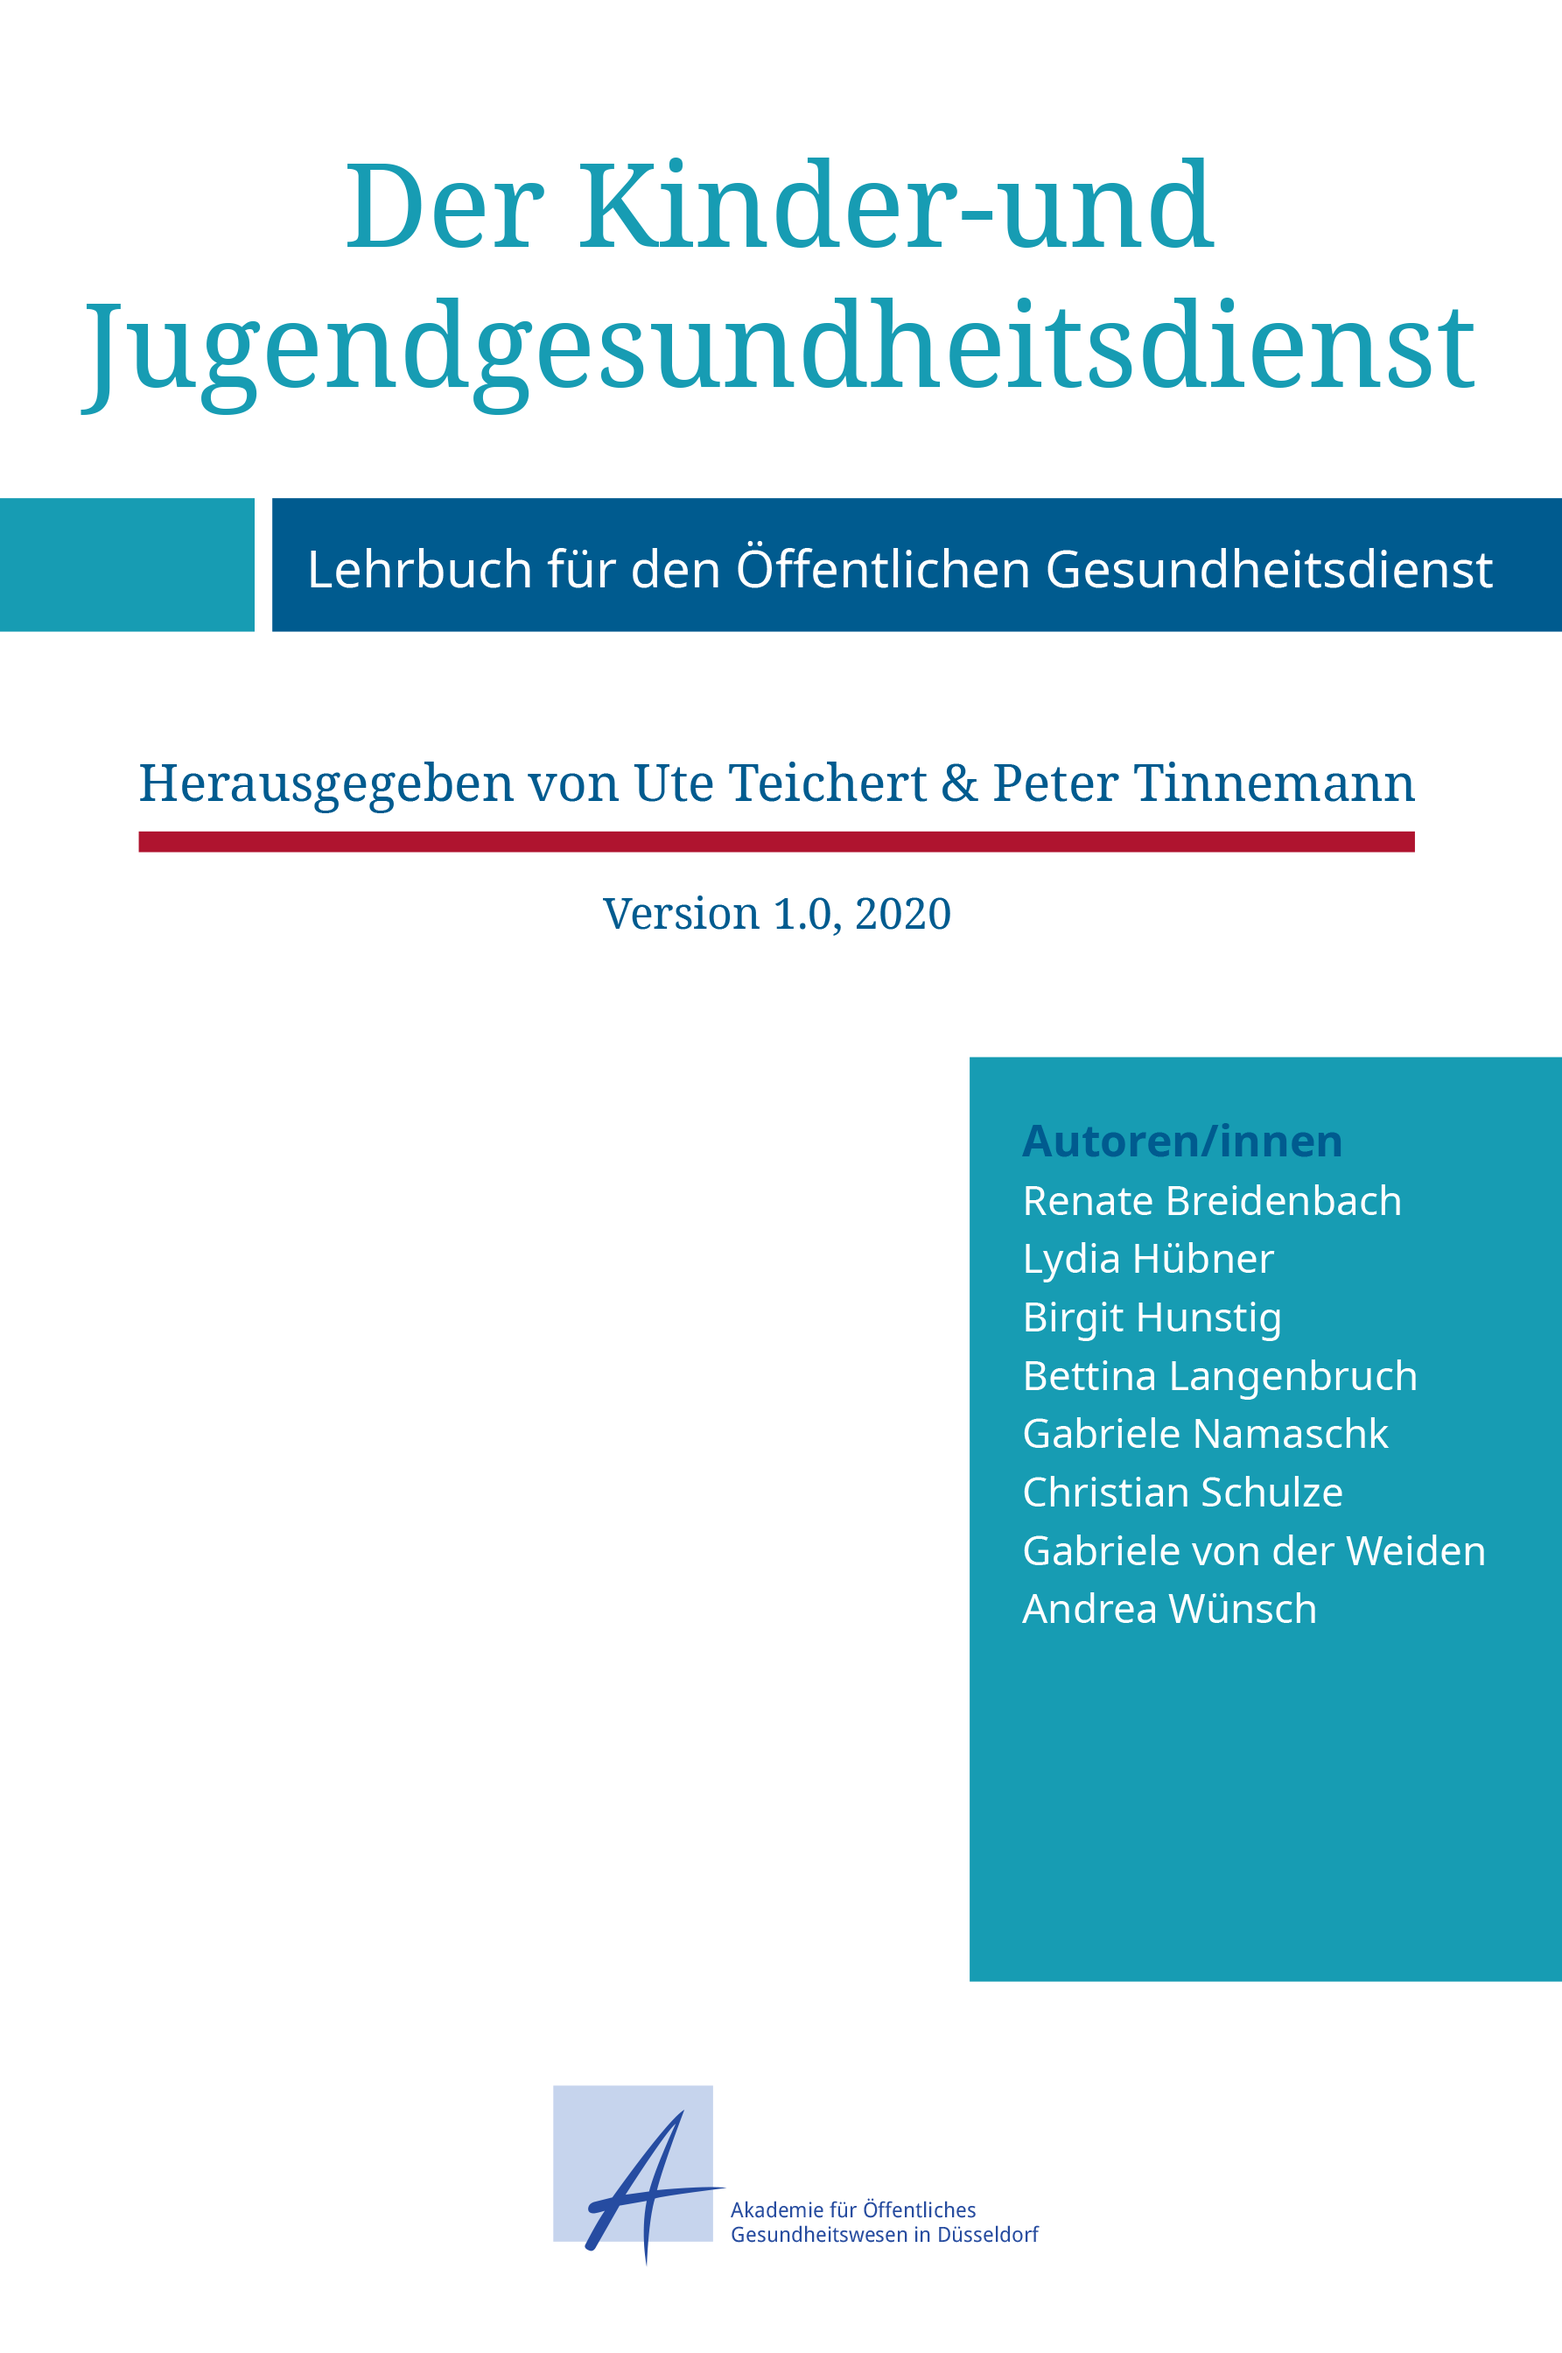
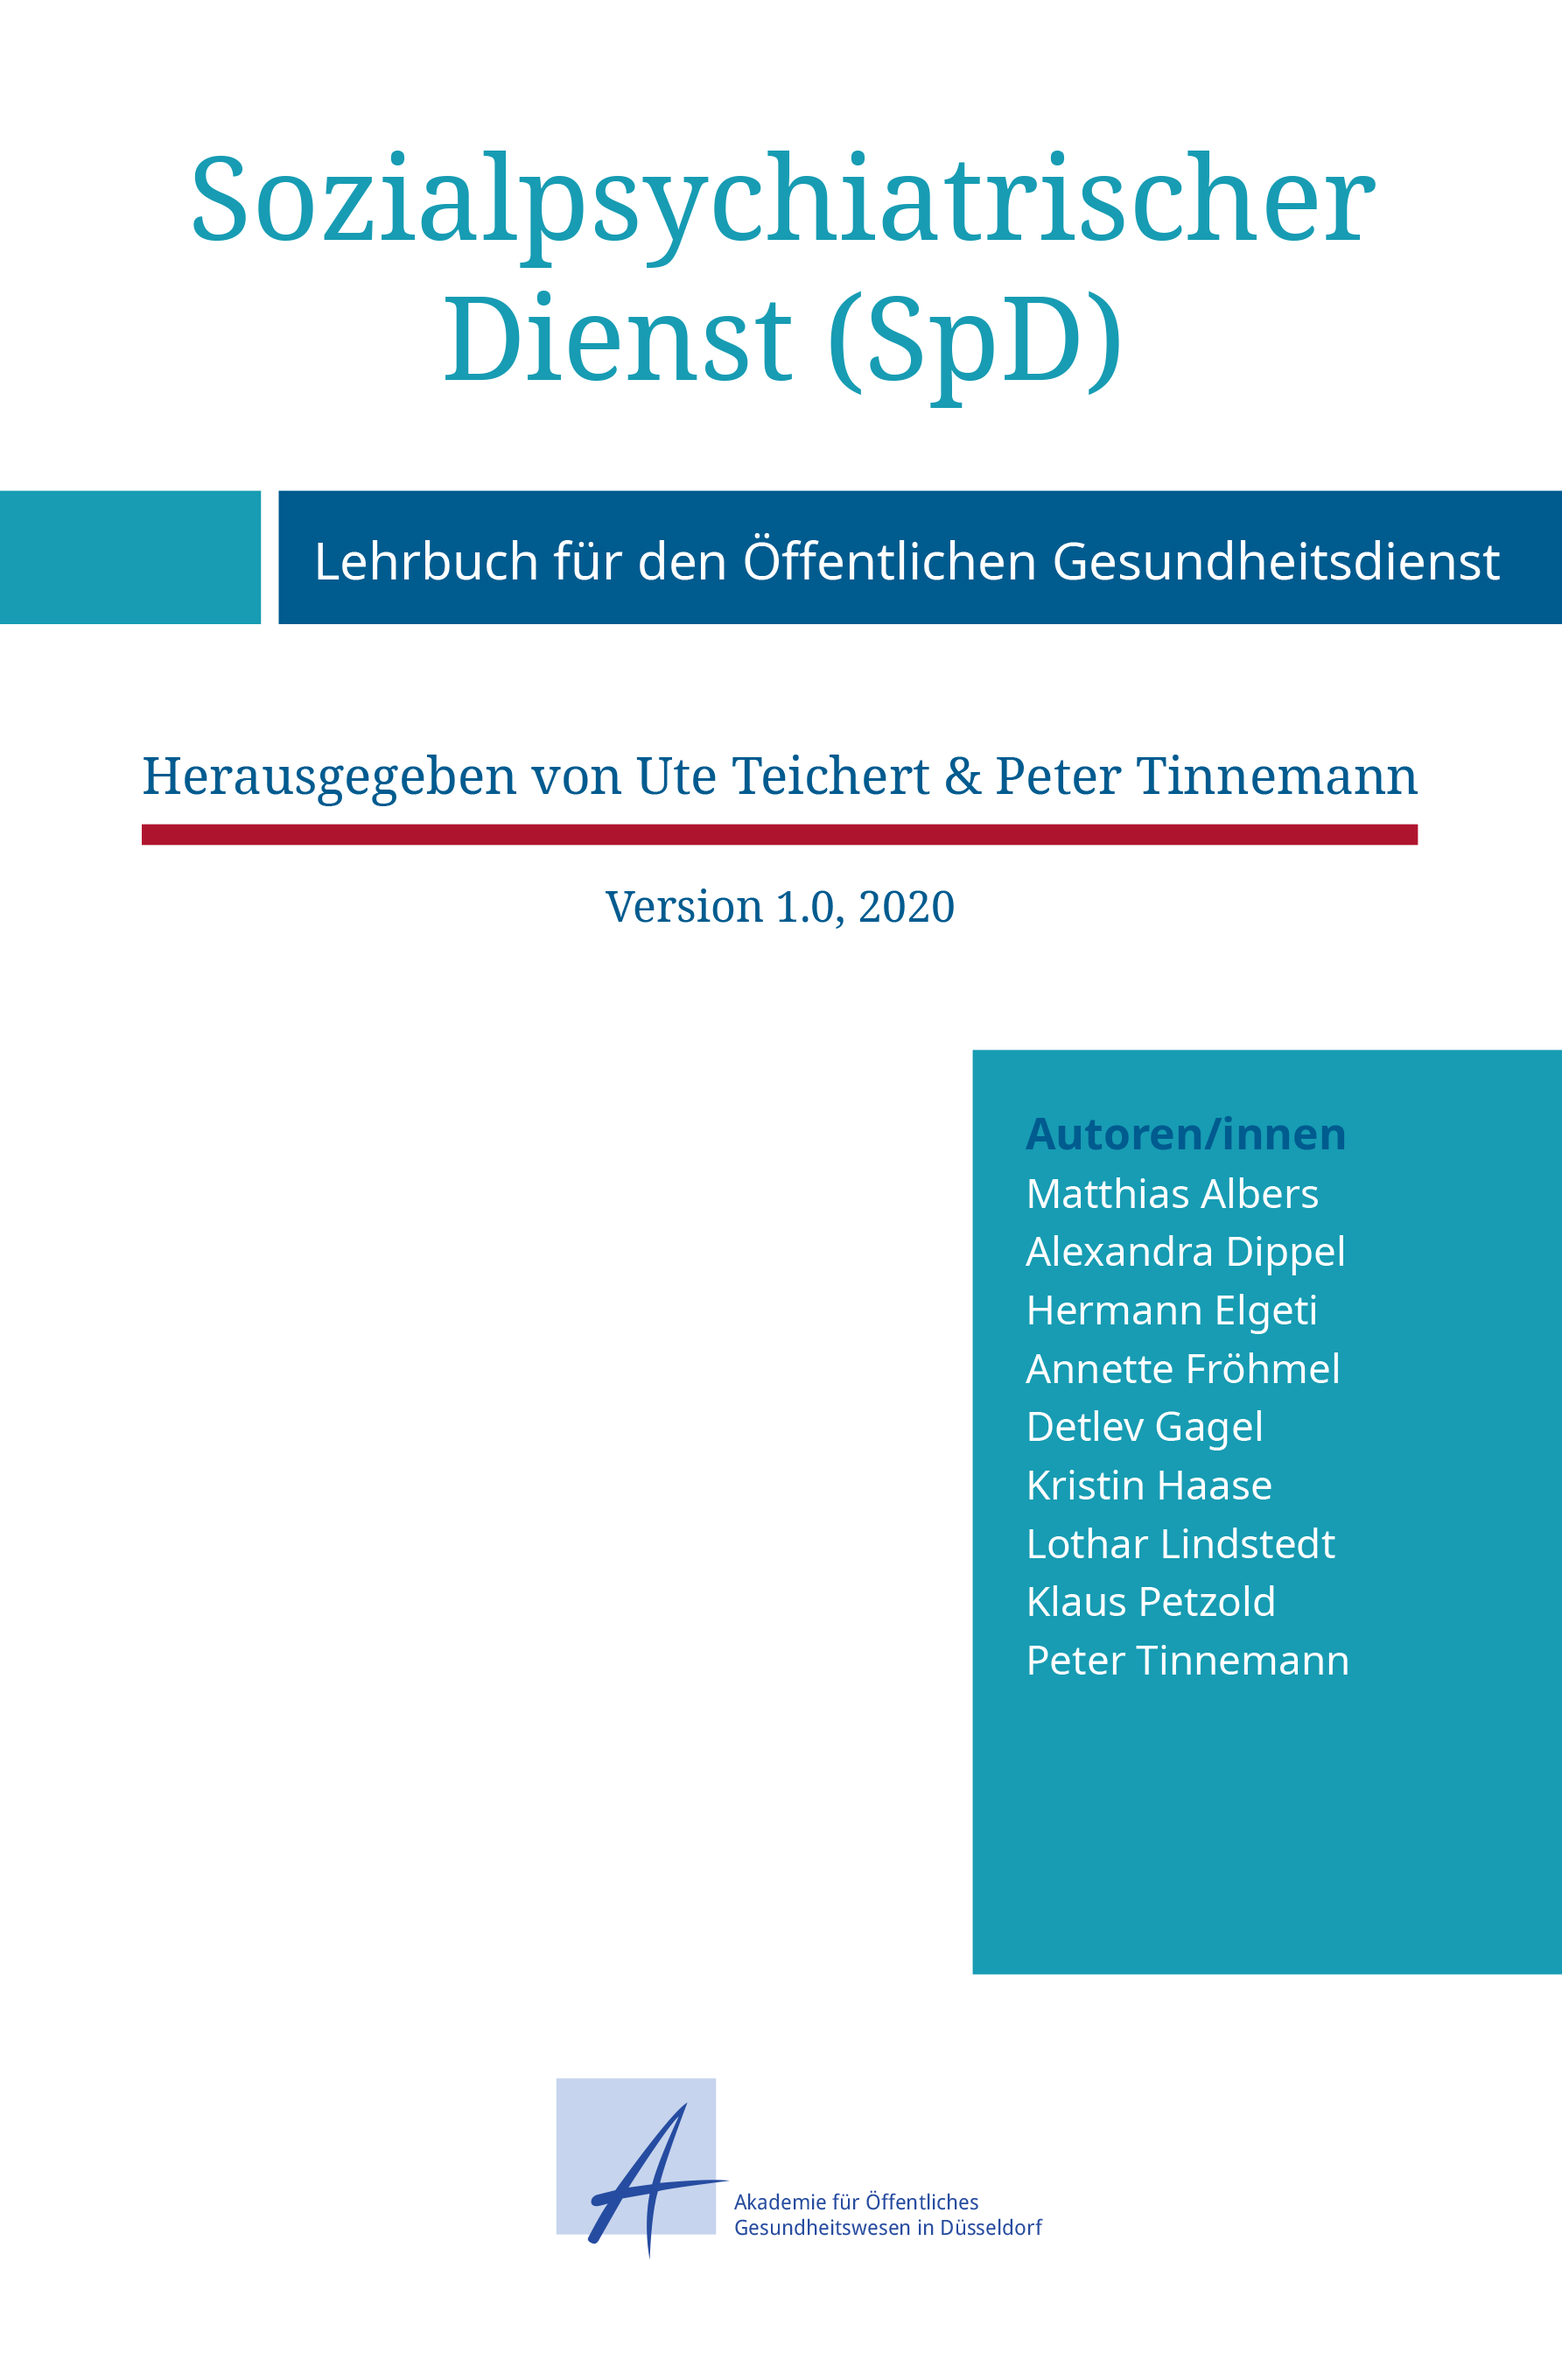
meta

diff --git a/_includes/head.html b/_includes/head.html
@@ -12,25 +12,25 @@
   <!-- Metatags -->
   <meta charset="utf-8" />
   <META NAME="keywords" CONTENT="Öffentlicher Gesundheitsdienst, Krisenmanagement, Risiko, Einsatzplanung, Infektionsschutz, Stabsarbeit, Kommunikation, Szenarien CBRN, Szenarien CBRN (B-Lagen), Toolbox, Lehrbuch" />
-  <META NAME="description" CONTENT="Krisenmanagement - Lehrbuch für den Öffentlichen Gesundheitsdienst" />
+  <META NAME="description" CONTENT="Der Sozialpsychiatrischer Dienst - Lehrbuch für den Öffentlichen Gesundheitsdienst" />
   <!-- Dublin Core -->
-  <META NAME="DC.title" CONTENT="Der Kinder- und Jugendgesundheitsdienst" />
+  <META NAME="DC.title" CONTENT="Der Sozialpsychiatrischer Dienst" />
   <META NAME="DC.creator" CONTENT="Akademie für Öffentliches Gesundheitswesen in Düsseldorf" />
   <META NAME="DC.subject" CONTENT="Öffentlicher Gesundheitsdienst, Krisenmanagement, Risiko, Einsatzplanung, Infektionsschutz, Stabsarbeit, Kommunikation, Szenarien: CBRN, Szenarien: CBRN (B-Lagen), Toolbox, Lehrbuch" />
-  <META NAME="DC.description.abstract" CONTENT="Der Kinder- und Jugendgesundheitsdienst - Lehrbuch für den Öffentlichen Gesundheitsdienst" />
-  <META NAME="DC.date" CONTENT="2020-04-28" />
+  <META NAME="DC.description.abstract" CONTENT="Der Sozialpsychiatrischer Dienst - Lehrbuch für den Öffentlichen Gesundheitsdienst" />
+  <META NAME="DC.date" CONTENT="2020-08-28" />
   <META NAME="DC.type" CONTENT="Book" />
   <META NAME="DC.format" CONTENT="text/html" />
   <META NAME="DC.language" CONTENT="de" />
-  <META NAME="DC.identifier.URL" CONTENT="https://doi.org/10.25815/6f4j-aq15" />
+  <META NAME="DC.identifier.URL" CONTENT="https://doi.org/10.25815/aacp-4461" />
   <META NAME="DC.rights" CONTENT="https://creativecommons.org/licenses/by-sa/4.0/deed.de" />
-  <META NAME="DC.identifier" CONTENT="ISBN 9783981287141" />
+  <META NAME="DC.identifier" CONTENT="ISBN 978-3-9812871-6-5" />
   <META NAME="DC.contributor" CONTENT="Böhm, Heidrun; Cwojdzinski, Detlef; Grote, Ulrike; Heitkötter, Kalle; Knauer, Christine; Möller, Ingrid; Pukropski, Guido; Sasse, Julia; Schmidt, Tanja; Siering, Ute; Stark, Karlin; Steul, Katrin; Tinnemann, Peter" />
   <META NAME="DC.publisher" CONTENT="Akademie für Öffentliches Gesundheitswesen in Düsseldorf" />
-  <META NAME="DC.bibliographicCitation" CONTENT="Tinnemann, Peter, Böhm Heidrun, Cwojdzinski Detlef, and Grote Ulrike., et al Krisenmanagement. Lehrbuch für den Öffentlichen Gesundheitsdienst 1. Berlin, 2020. https://doi.org/10.25815/h0ec-f967" />
+  <META NAME="DC.bibliographicCitation" CONTENT=" " />
   <LINK REL="SCHEMA.DC" HREF="http://purl.org/dc/elements/1.1/" />
 
-  <link rel="shortcut icon" href="{{ 'favicon.ico' | absolute_url }}" type="image/x-icon">
+  <link rel="shortcut icon" href="{{ 'images/favicon.ico' | absolute_url }}" type="image/x-icon">
 
   <link rel="stylesheet" href="{{ '/assets/css/just-the-docs.css' | absolute_url }}">
 

diff --git a/index.md b/index.md
@@ -4,48 +4,19 @@ title: Startseite
 nav_order: 1
 ---
 
-![Der Kinder- und Jugendgesundheitsdienst Buch](images/cover.png "Der Kinder- und Jugendgesundheitsdienst Buch"){:.imgcover}
-*Der Kinder- und Jugendgesundheitsdienst - Lehrbuch für den Öffentlichen Gesundheitsdienst*
+![Der Sozialpsychiatrischer Dienst Buch](images/cover.png "Der Sozialpsychiatrischer Dienst Buch"){:.imgcover}
+*Der Sozialpsychiatrischer Dienst - Lehrbuch für den Öffentlichen Gesundheitsdienst*
 
-Der Kinder- und Jugendgesundheitsdienst (KJGD) ist einer der zentralen
-Bereiche im Öffentliche Gesundheitsdienst (ÖGD). Er hat sich von der
-Einführung schulärztlicher Tätigkeit vor fast 150 Jahren immer wieder
-ändernden gesellschaftlichen Rahmenbedingungen angepasst und wurde
-weiterentwickelt. Die Arbeit im KJGD wurden in den letzten Jahrzehnten
-zunehmend methodisch standardisiert und konsekutiv ausgebaut, so das die
-heutigen Aufgaben weit über die ursprünglichen schulärztlichen Aufgaben
-hinausgehen.
+Der Sozialpsychiatrische Dienst ist im Rahmen des psychosozialen Versorgungssystems in Deutschland der bekannteste Baustein. Er ist in der Regel Teil der kommunalen öffentlichen Gesundheitsversorgung.
 
-Vor diesem Hintergrund ist es an der Zeit ein eigenständiges Lehrbuch
-für die im KJGD tätigen Ärztinnen und Ärzte, sowie alle interessierten
-Mitarbeiterinnen und Mitarbeiter in diesem Bereich zu erarbeiten und
-dabei die Ausgestaltung der Aufgaben und Tätigkeitsbereich umfangreich
-zu beschreiben.
+Basierend auf rechtlichen Grundlagen bieten Sozialpsychiatrische Dienste fachärztliche und sozialarbeiterische Hilfen für Menschen mit psychischen Störungen und seelischen Behinderungen sowie Suchterkrankungen an.
 
-**Ein effektiver KJGD ist heute nicht nur notwendig, sondern angesichts
-der zunehmenden gesellschaftlichen Herausforderungen, wie beispielsweise
-durch die Inklusion, wichtiger denn je.**
+Seine Arbeit setzt da an, wo Menschen notwendige Hilfen und Schutzmaßnahmen, die sie wegen einer Krankheit oder einer Behinderung benötigen - noch - nicht vorfinden oder krankheitsbedingt nicht nutzen können. Der Dienst arbeitet multiprofessionell und setzt sich in den Gesundheitsämtern zumeist aus Ärzten/innen, Sozialarbeiter/innen, Sozialpädagogen/innen und  Psychologen/innen zusammen.
 
-Das Lehrbuch soll Mitarbeitern/innen in Gesundheitsämtern, aber auch aus
-anderen Einrichtungen des ÖGD, Grundlegenden Prinzipien und Methoden,
-sowie praktische Erfahrungen vermitteln damit diese sich zielgerecht auf
-die Arbeiten im KJGD vorbereiten können. Neben fachlichen
-Gesichtspunkten werden insbesondere Handlungsempfehlungen für die
-alltägliche Arbeit im Gesundheitsamt auf kommunaler Ebene gegeben. Eine
-ausführliche Literaturliste ergänzt das Lehrbuch als praktische
-Hilfsmittel.
+Die in diesem Lehrbuch erstmals zusammengefassten Inhalte beruhen auf jahrelanger theoretischer Auseinandersetzung und praktischer Erfahrung der Autoren/innen im ÖGD.
 
-Die in diesem einzigartigen Lehrbuch zusammengefassten Inhalte beruhen
-auf jahrelanger theoretischer Auseinandersetzung und praktischer
-Erfahrung der Autoren/innen im ÖGD. **Das vorliegende Lehrbuch ist ein
-Gemeinschaftswerk aller beteiligten Autorinnen und Autoren und ist nicht
-die Meinung einzelner Institutionen oder einzelner Autoren und
-Autorinnen.**
+Das vorliegende Lehrbuch ist ein Gemeinschaftswerk aller beteiligten Autorinnen und Autoren. Es gibt   nicht die Meinung einzelner Institutionen oder einzelner Autoren und Autorinnen wieder.
 
-Es wird zukünftig aktualisiert und erweitert werden. Wir freuen uns
-daher, wenn Sie uns Ihre Anregungen, Kommentare und Ergänzungen
-mitteilen. Schicken Sie diese bitte an lehrbuch@akademie-oegw.de
+Dieses Lehrbuch soll fortlaufend  aktualisiert und erweitert werden. Wir freuen uns daher, wenn Sie uns Ihre Anregungen, Kommentare und Ergänzungen mitteilen. Senden Sie diese bitte an lehrbuch@akademie-oegw.de
 
-Wir nutzen
-**[Hypothes.is](https://hypothes.is/ "https://hypothes.is/")** für Ihre
-Kommentare und Ergänzungen unseres Lehrbuches.
+Wir nutzen **[Hypothes.is](https://hypothes.is/ "https://hypothes.is/")** für Ihre Kommentare und Ergänzungen unseres Lehrbuches.
